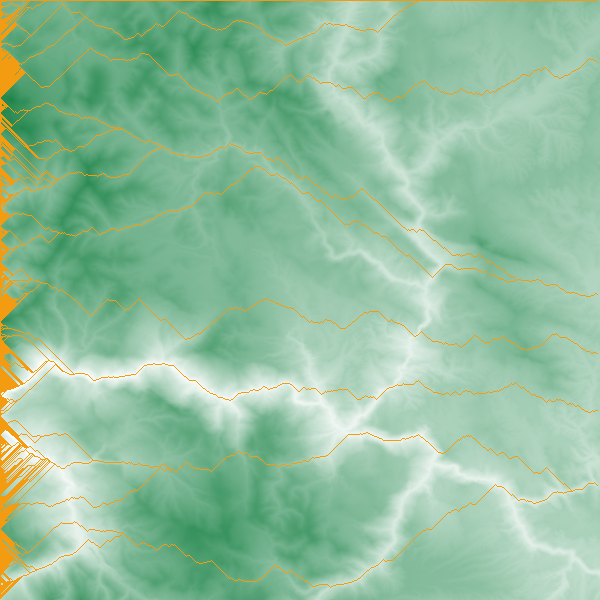
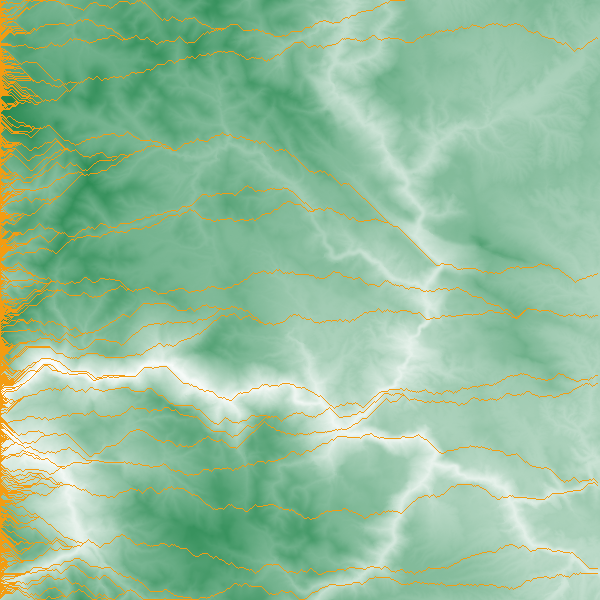
tweaking algorithm... still not where it needs to be

diff --git a/pathMain.py b/pathMain.py
@@ -72,14 +72,20 @@ def pathfinder(start_pt):
     x = 1
     points_in_path = [(0, start_pt)]
     y = start_pt
+    current_elevation = nest[start_pt][0]
     while x < (columns - 2):
         best_choice = (x, y)
-        if y > 0 and y < columns and x > 0 and x < rows and nest[y - 1][x] < nest[y][x]:
+        
+        if abs((nest[y - 1][x] - current_elevation)) < abs(nest[y][x] - current_elevation):
             best_choice = (x, y - 1)
+            current_elevation = nest[y - 1][x]
             y = y - 1
-        elif y > 0 and y < (columns - 1) and x > 0 and x < (rows - 1) and nest[y + 1][x] < nest[y][x]:
+        elif y < (columns - 1) and abs(nest[y + 1][x] - current_elevation) < abs(nest[y][x] - current_elevation):
             best_choice = (x, y + 1)
+            current_elevation = nest[y + 1][x]
             y = y + 1
+        else:
+            current_elevation = nest[y][x]
         points_in_path.append(best_choice)
         print(best_choice)
         x += 1
